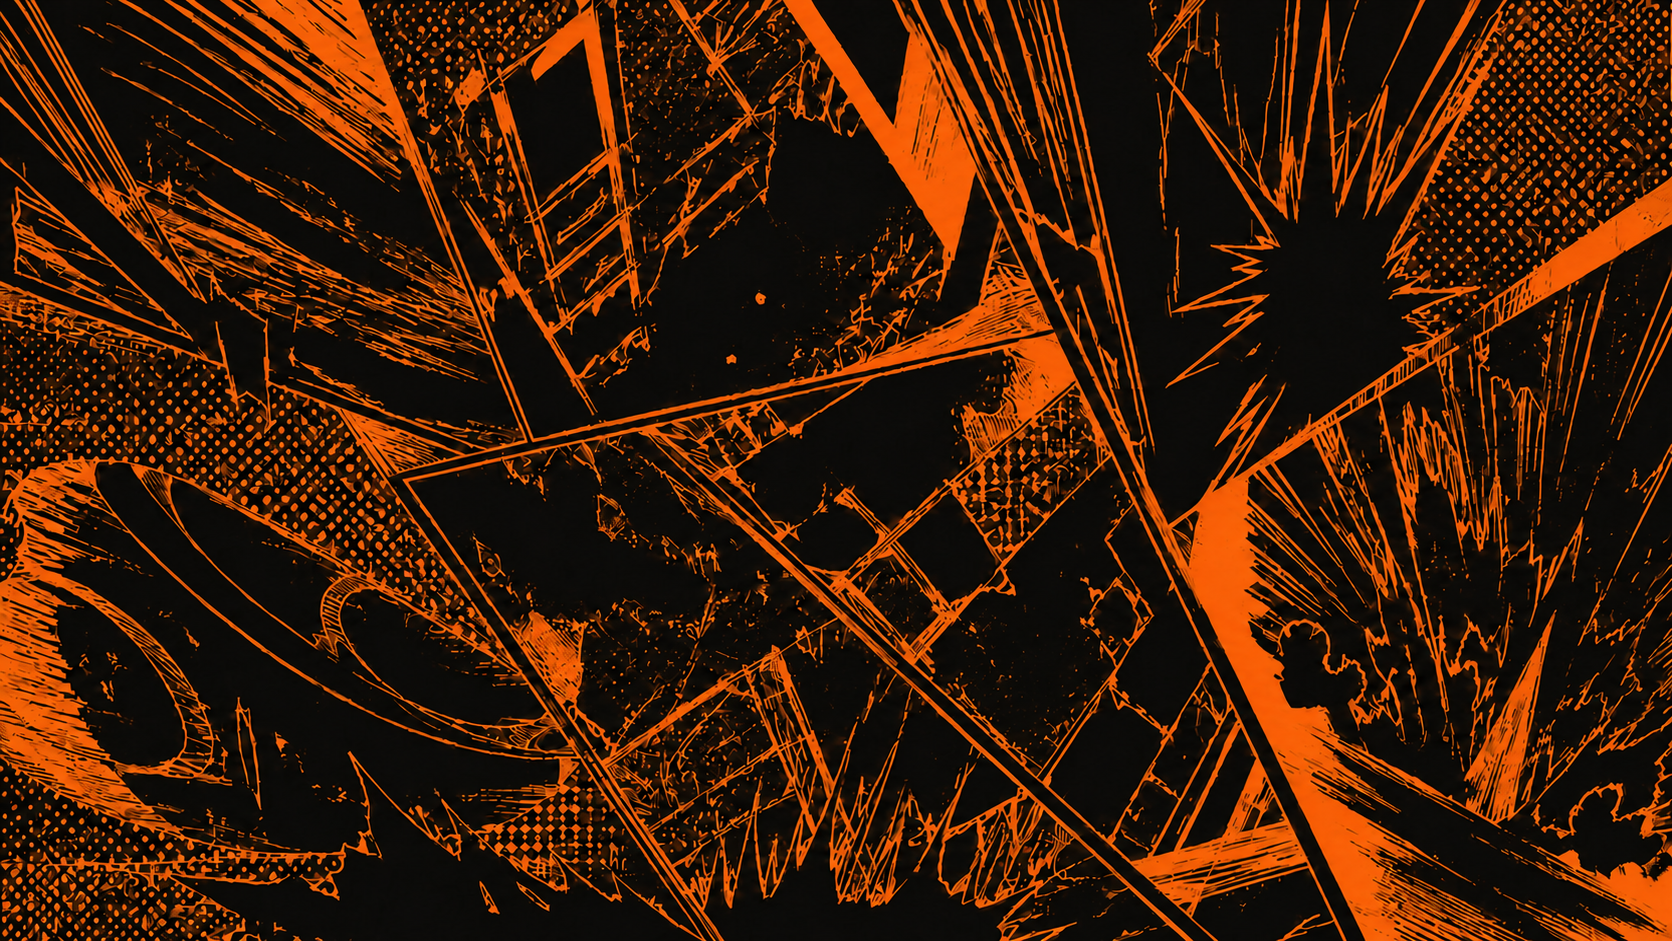
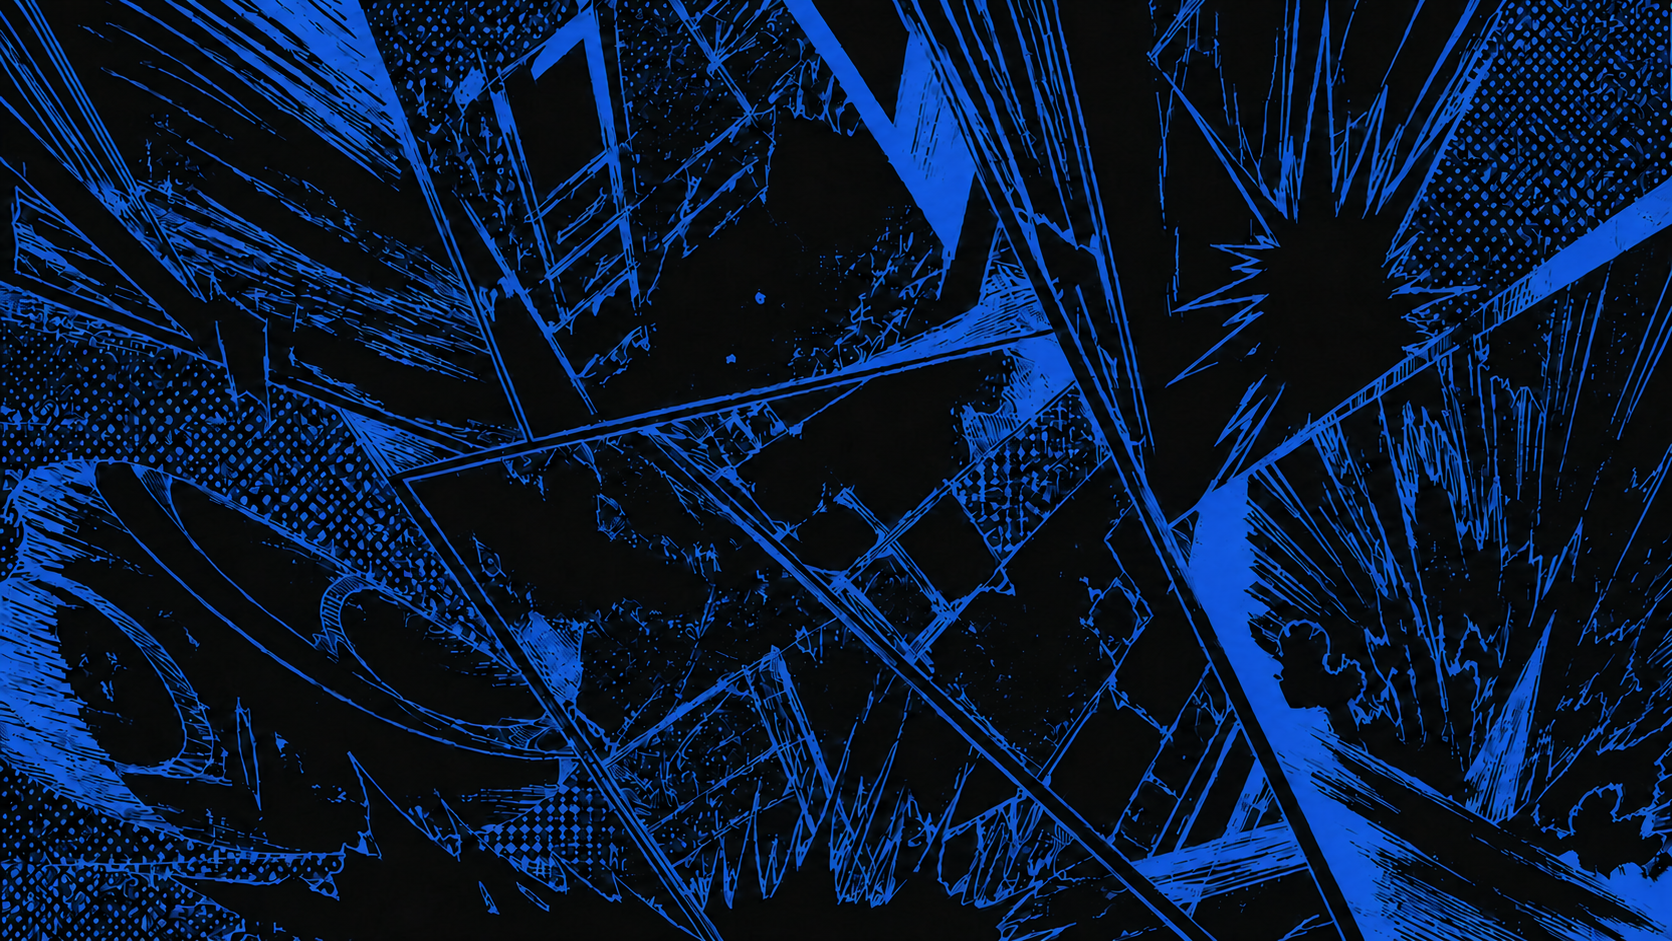
style: switch brand accent from orange to blue

diff --git a/apps/arc/src/routes/layout.css b/apps/arc/src/routes/layout.css
@@ -8,15 +8,15 @@
     --theme-header: #272727;
     --theme-header-hover: #151515;
     --theme-search: #151515;
-    --theme-search-recent: #213944;
+    --theme-search-recent: oklch(0.23 0.006 285);
     --theme-foreground: #fff;
     --theme-surface: oklch(0.17 0.006 285);
     --theme-muted: oklch(0.71 0.008 285);
     --theme-subtle: oklch(0.57 0.008 285);
     --theme-border: oklch(0.35 0.008 285);
     --theme-border-strong: oklch(0.5 0.008 285);
-    --theme-accent: #ff640a;
-    --theme-on-accent: #000;
+    --theme-accent: #0a5cff;
+    --theme-on-accent: #fff;
     --theme-status-error: #f04427;
     --theme-status-success: #2ca66f;
     --theme-on-status: oklch(0.13 0.01 48);
@@ -29,7 +29,7 @@
     --theme-watch-secondary: oklch(0.74 0.004 285);
     --theme-watch-muted: oklch(0.63 0.004 285);
     --theme-player-panel: oklch(0.18 0.012 285);
-    --theme-input-accent: oklch(0.72 0.13 205);
+    --theme-input-accent: var(--theme-accent);
     --theme-tooltip: #414141;
     --theme-tooltip-foreground: #ececec;
 

diff --git a/apps/arc/src/app.html b/apps/arc/src/app.html
@@ -3,7 +3,7 @@
     <head>
         <meta charset="utf-8" />
         <meta name="viewport" content="width=device-width, initial-scale=1" />
-        <meta name="theme-color" content="#000000" />
+        <meta name="theme-color" content="#0a5cff" />
         %sveltekit.head%
     </head>
     <body data-sveltekit-preload-data="hover">
